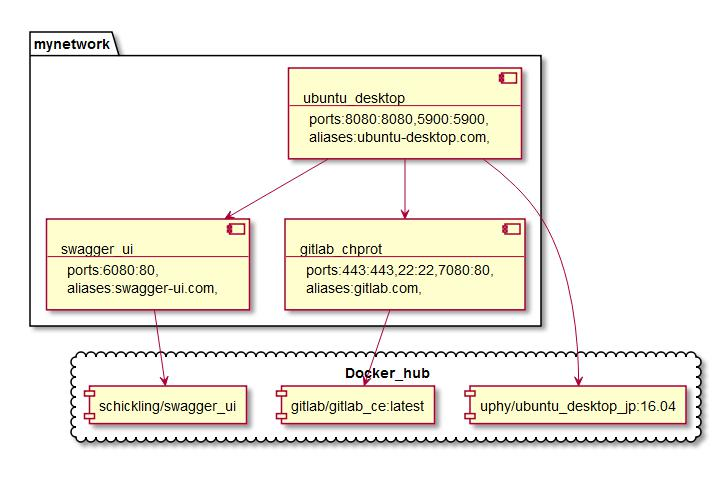
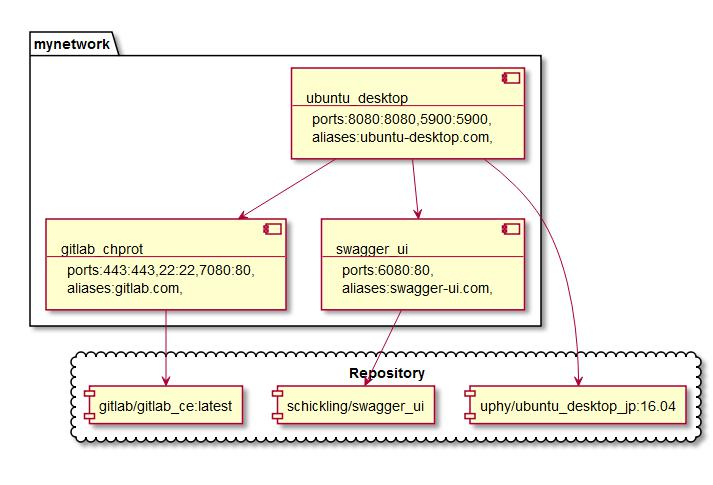
modify readme and prettify output.md

diff --git a/dc2uml.py b/dc2uml.py
@@ -93,16 +93,16 @@ def combine_dependencies_str(dependencies_dict):
         elif isinstance(v, list):
             for i in v:
                 combined_dependencies_str = combined_dependencies_str \
-                    + '  [' + k + ']' + ' --> ' + '[' + i + ']' + '\n'
+                    + '[' + k + ']' + ' --> ' + '[' + i + ']' + '\n'
         else:
             combined_dependencies_str = combined_dependencies_str \
-                + '  [' + k + ']' + ' --> ' + '[' + v + ']' + '\n'
+                + '[' + k + ']' + ' --> ' + '[' + v + ']' + '\n'
     return combined_dependencies_str
 
 
 def combine_images_str(images_dict):
     combined_images_str = ''
-    prefix = 'cloud ' + 'Docker_hub' + ' {\n'
+    prefix = 'cloud ' + 'Repository' + ' {\n'
     sufix = '}\n'
     for (k, v) in images_dict.items():
         if v is None:
@@ -121,10 +121,10 @@ def combine_images_str(images_dict):
 def make_components_str_dict(components_dict):
     components_str_dict = {}
     prefix = 'component '
-    sufix = ']'
+    sufix = '  ]'
     for (k, v) in components_dict.items():
         tmp = prefix + k + ' [' + k + '''
----
+  ---
 '''
         tmp = _add_ports(tmp, v)
         tmp = _add_aliases(tmp, v)
@@ -138,7 +138,7 @@ def _add_ports(target_str, content_dict):
     poarts_str = ''
     for i in ports:
         poarts_str = poarts_str + str(i) + ','
-    added_str = target_str + ports_define + ':' + poarts_str + '\n'
+    added_str = target_str + '  ' + ports_define + ':' + poarts_str + '\n'
     return added_str
 
 
@@ -147,7 +147,7 @@ def _add_aliases(target_str, content_dict):
     aliases_str = ''
     for i in aliases:
         aliases_str = aliases_str + str(i) + ','
-    added_str = target_str + aliases_define + ':' + aliases_str + '\n'
+    added_str = target_str + '  ' + aliases_define + ':' + aliases_str + '\n'
     return added_str
 
 

diff --git a/README.md b/README.md
@@ -14,7 +14,7 @@ Must define service settings below in docker-compose.yml
 - Correspondence table
 
 | Docker-compose v3 | Plantuml component diagram      |
-|:----------------- |:------------------------------- |
+|:------------------|:--------------------------------|
 | services          | components                      |
 | depends_on        | links                           |
 | networks          | package                         |
@@ -27,9 +27,12 @@ Must define service settings below in docker-compose.yml
 ## Install requirements
 - Ubuntu 16.04
 ```
-$ apt-get install -y atom && \
+$ apt-get update && \
+  apt-get install -y atom && \
   apm install markdown-preview-enhanced && \
-  apt-get install -y plantuml
+  apt-get install -y plantuml && \
+  apt-get install python-pip && \
+  pip install pyyaml
 ```
 
 ## Usage
@@ -44,7 +47,7 @@ $ python dc2uml.py fullpath/inputfile.yml fullpath/outputfile.md
 - See [output.md](examples/output.md)
 ![example](examples/output.jpeg)
 
-## Development plans
+## Future works
 - Refactoring
 - Support
   - Exception cases
@@ -52,6 +55,8 @@ $ python dc2uml.py fullpath/inputfile.yml fullpath/outputfile.md
   - Dockerfile
   - Other plantuml diagrams
   - Other text-based uml tools
+  - Offical plantuml format
+  - Redefine correspondence
 - Monolithic to microservices
 
 

diff --git a/examples/output.md b/examples/output.md
@@ -1,26 +1,26 @@
 ```puml
 package mynetwork {
   component ubuntu_desktop [ubuntu_desktop
----
-ports:8080:8080,5900:5900,
-aliases:ubuntu-desktop.com,
-]
+  ---
+  ports:8080:8080,5900:5900,
+  aliases:ubuntu-desktop.com,
+  ]
   component gitlab_chprot [gitlab_chprot
----
-ports:443:443,22:22,7080:80,
-aliases:gitlab.com,
-]
+  ---
+  ports:443:443,22:22,7080:80,
+  aliases:gitlab.com,
+  ]
   component swagger_ui [swagger_ui
----
-ports:6080:80,
-aliases:swagger-ui.com,
-]
+  ---
+  ports:6080:80,
+  aliases:swagger-ui.com,
+  ]
 }
 
-  [ubuntu_desktop] --> [gitlab_chprot]
-  [ubuntu_desktop] --> [swagger_ui]
+[ubuntu_desktop] --> [gitlab_chprot]
+[ubuntu_desktop] --> [swagger_ui]
 
-cloud Docker_hub {
+cloud Repository {
   [ubuntu_desktop] --> [uphy/ubuntu_desktop_jp:16.04]
   [gitlab_chprot] --> [gitlab/gitlab_ce:latest]
   [swagger_ui] --> [schickling/swagger_ui]
